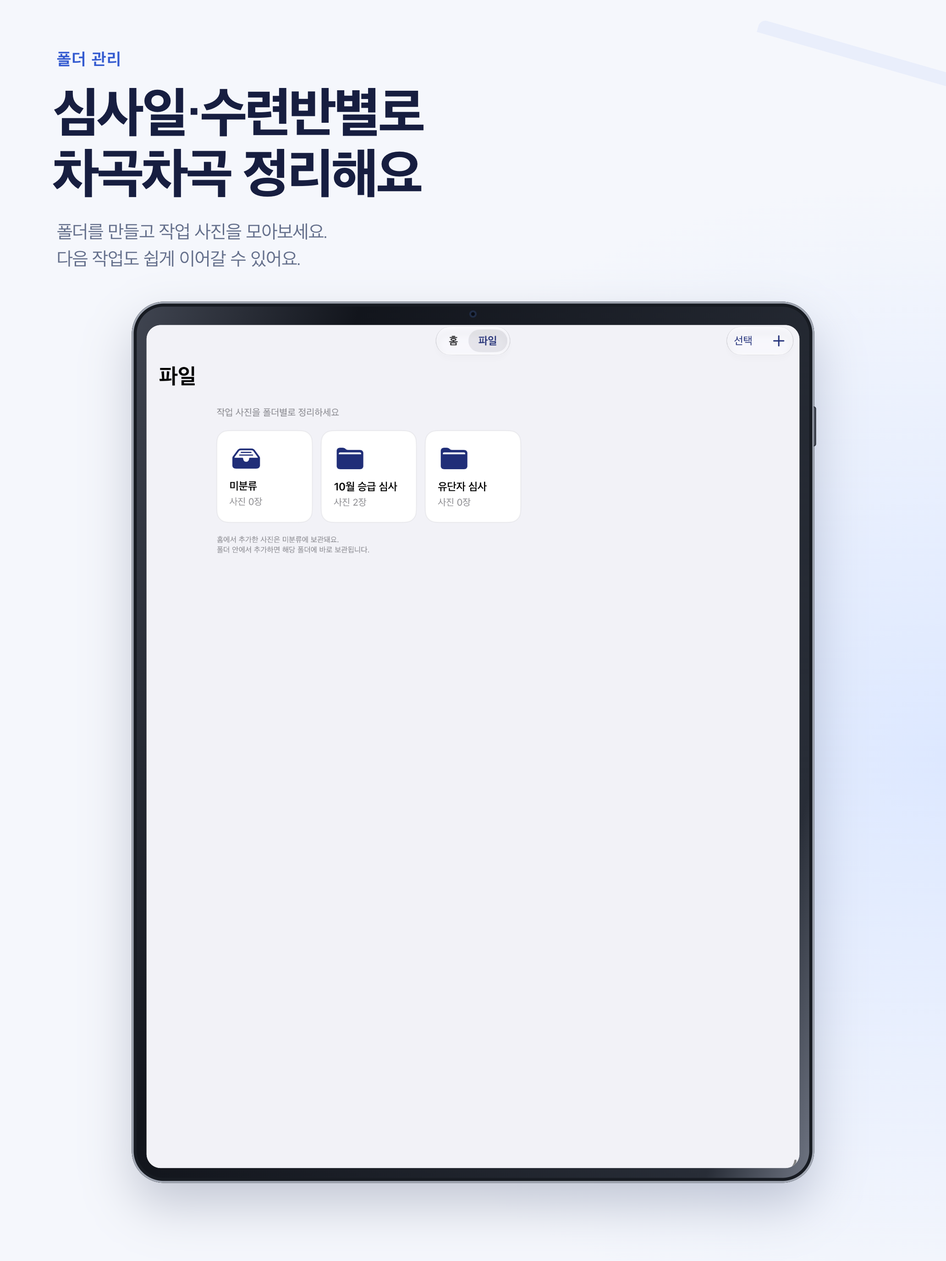
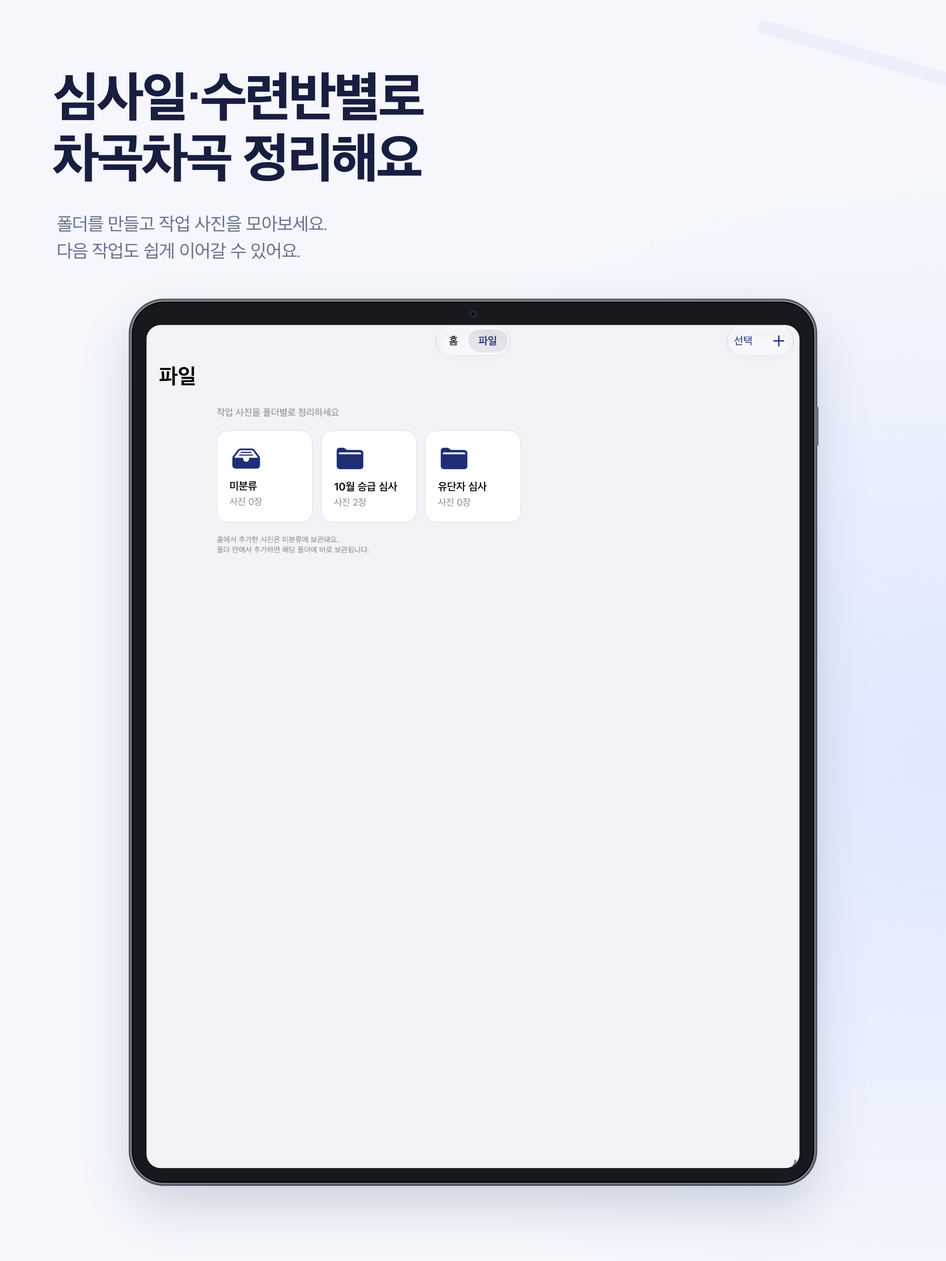
[refactor] 표지 로고와 아이폰 목업 개선

Changed region(s): [[0.062, 0.0312, 0.8372, 0.9375], [0.7132, 0.25, 0.8682, 0.9375]]

diff --git a/Design/AppStore/index.html b/Design/AppStore/index.html
@@ -1,1 +1,1 @@
-<!doctype html><html lang="ko"><meta charset="utf-8"><meta name="viewport" content="width=device-width"><title>TCON Maker · App Store 홍보 이미지</title><style>*{box-sizing:border-box}body{margin:0;padding:48px;background:#f1f4fa;color:#18275e;font-family:'Apple SD Gothic Neo',sans-serif}header,section{max-width:1600px;margin:0 auto 64px}h1{font-size:38px;margin:8px 0}h2{font-size:22px}.grid{display:grid;grid-template-columns:repeat(7,minmax(0,1fr));gap:18px}a{color:inherit;text-decoration:none}img{width:100%;border-radius:12px;box-shadow:0 8px 22px #13255416}span{display:block;margin-top:14px;font-size:14px}p{color:#626f89;line-height:1.6}.links{display:flex;gap:24px}@media(max-width:900px){body{padding:24px}.grid{grid-template-columns:repeat(3,minmax(0,1fr))}}@media(max-width:500px){.grid{grid-template-columns:repeat(2,minmax(0,1fr))}}</style><header><small>TCON MAKER / BY SEOLIN</small><h1>App Store 홍보 이미지</h1><p>실제 앱 화면에 기능별 제목과 설명을 더한 최종 이미지입니다.<br>각 기기 폴더에서 01–07 순서로 업로드하세요. 원본 캡처는 Captures 폴더에 보관되어 있습니다.</p><div class="links"><a href="Source/promotion.html">디자인 원본</a><a href="Captures/index.html">원본 캡처</a><a href="README.md">제작·업로드 안내</a></div></header><section><h2>iPhone-Large-1320x2868</h2><p>1320 × 2868 · PNG · 표지 + 기능 소개 6장 · 시간/배터리 영역 제외</p><div class="grid"><a href="ko-KR/iPhone-Large-1320x2868/01-cover.png" target="_blank"><img src="ko-KR/iPhone-Large-1320x2868/01-cover.png" alt="심사 사진 준비, 이제 간편하게"><span>심사 사진 준비, 이제 간편하게</span></a><a href="ko-KR/iPhone-Large-1320x2868/02-start.png" target="_blank"><img src="ko-KR/iPhone-Large-1320x2868/02-start.png" alt="심사 사진 준비, 이제 간편하게"><span>심사 사진 준비, 이제 간편하게</span></a><a href="ko-KR/iPhone-Large-1320x2868/03-size.png" target="_blank"><img src="ko-KR/iPhone-Large-1320x2868/03-size.png" alt="원하는 규격으로 한 번에 맞춰요"><span>원하는 규격으로 한 번에 맞춰요</span></a><a href="ko-KR/iPhone-Large-1320x2868/04-editor.png" target="_blank"><img src="ko-KR/iPhone-Large-1320x2868/04-editor.png" alt="얼굴 위치부터 구도까지 섬세하게"><span>얼굴 위치부터 구도까지 섬세하게</span></a><a href="ko-KR/iPhone-Large-1320x2868/05-folders.png" target="_blank"><img src="ko-KR/iPhone-Large-1320x2868/05-folders.png" alt="심사일·수련반별로 차곡차곡 정리해요"><span>심사일·수련반별로 차곡차곡 정리해요</span></a><a href="ko-KR/iPhone-Large-1320x2868/06-selection.png" target="_blank"><img src="ko-KR/iPhone-Large-1320x2868/06-selection.png" alt="필요한 사진만 골라서 한 번에"><span>필요한 사진만 골라서 한 번에</span></a><a href="ko-KR/iPhone-Large-1320x2868/07-export.png" target="_blank"><img src="ko-KR/iPhone-Large-1320x2868/07-export.png" alt="사진·파일·ZIP으로 편하게 저장해요"><span>사진·파일·ZIP으로 편하게 저장해요</span></a></div></section><section><h2>iPhone-Medium-1179x2556</h2><p>1179 × 2556 · PNG · 표지 + 기능 소개 6장 · 시간/배터리 영역 제외</p><div class="grid"><a href="ko-KR/iPhone-Medium-1179x2556/01-cover.png" target="_blank"><img src="ko-KR/iPhone-Medium-1179x2556/01-cover.png" alt="심사 사진 준비, 이제 간편하게"><span>심사 사진 준비, 이제 간편하게</span></a><a href="ko-KR/iPhone-Medium-1179x2556/02-start.png" target="_blank"><img src="ko-KR/iPhone-Medium-1179x2556/02-start.png" alt="심사 사진 준비, 이제 간편하게"><span>심사 사진 준비, 이제 간편하게</span></a><a href="ko-KR/iPhone-Medium-1179x2556/03-size.png" target="_blank"><img src="ko-KR/iPhone-Medium-1179x2556/03-size.png" alt="원하는 규격으로 한 번에 맞춰요"><span>원하는 규격으로 한 번에 맞춰요</span></a><a href="ko-KR/iPhone-Medium-1179x2556/04-editor.png" target="_blank"><img src="ko-KR/iPhone-Medium-1179x2556/04-editor.png" alt="얼굴 위치부터 구도까지 섬세하게"><span>얼굴 위치부터 구도까지 섬세하게</span></a><a href="ko-KR/iPhone-Medium-1179x2556/05-folders.png" target="_blank"><img src="ko-KR/iPhone-Medium-1179x2556/05-folders.png" alt="심사일·수련반별로 차곡차곡 정리해요"><span>심사일·수련반별로 차곡차곡 정리해요</span></a><a href="ko-KR/iPhone-Medium-1179x2556/06-selection.png" target="_blank"><img src="ko-KR/iPhone-Medium-1179x2556/06-selection.png" alt="필요한 사진만 골라서 한 번에"><span>필요한 사진만 골라서 한 번에</span></a><a href="ko-KR/iPhone-Medium-1179x2556/07-export.png" target="_blank"><img src="ko-KR/iPhone-Medium-1179x2556/07-export.png" alt="사진·파일·ZIP으로 편하게 저장해요"><span>사진·파일·ZIP으로 편하게 저장해요</span></a></div></section><section><h2>iPad-13-2064x2752</h2><p>2064 × 2752 · PNG · 표지 + 기능 소개 6장 · 시간/배터리 영역 제외</p><div class="grid"><a href="ko-KR/iPad-13-2064x2752/01-cover.png" target="_blank"><img src="ko-KR/iPad-13-2064x2752/01-cover.png" alt="심사 사진 준비, 이제 간편하게"><span>심사 사진 준비, 이제 간편하게</span></a><a href="ko-KR/iPad-13-2064x2752/02-start.png" target="_blank"><img src="ko-KR/iPad-13-2064x2752/02-start.png" alt="심사 사진 준비, 이제 간편하게"><span>심사 사진 준비, 이제 간편하게</span></a><a href="ko-KR/iPad-13-2064x2752/03-size.png" target="_blank"><img src="ko-KR/iPad-13-2064x2752/03-size.png" alt="원하는 규격으로 한 번에 맞춰요"><span>원하는 규격으로 한 번에 맞춰요</span></a><a href="ko-KR/iPad-13-2064x2752/04-editor.png" target="_blank"><img src="ko-KR/iPad-13-2064x2752/04-editor.png" alt="얼굴 위치부터 구도까지 섬세하게"><span>얼굴 위치부터 구도까지 섬세하게</span></a><a href="ko-KR/iPad-13-2064x2752/05-folders.png" target="_blank"><img src="ko-KR/iPad-13-2064x2752/05-folders.png" alt="심사일·수련반별로 차곡차곡 정리해요"><span>심사일·수련반별로 차곡차곡 정리해요</span></a><a href="ko-KR/iPad-13-2064x2752/06-selection.png" target="_blank"><img src="ko-KR/iPad-13-2064x2752/06-selection.png" alt="필요한 사진만 골라서 한 번에"><span>필요한 사진만 골라서 한 번에</span></a><a href="ko-KR/iPad-13-2064x2752/07-export.png" target="_blank"><img src="ko-KR/iPad-13-2064x2752/07-export.png" alt="사진·파일·ZIP으로 편하게 저장해요"><span>사진·파일·ZIP으로 편하게 저장해요</span></a></div></section></html>
+<!doctype html><html lang="ko"><meta charset="utf-8"><meta name="viewport" content="width=device-width"><title>TCON Maker · App Store 홍보 이미지</title><style>*{box-sizing:border-box}body{margin:0;padding:48px;background:#f1f4fa;color:#18275e;font-family:'Apple SD Gothic Neo',sans-serif}header,section{max-width:1600px;margin:0 auto 64px}h1{font-size:38px;margin:8px 0}h2{font-size:22px}.grid{display:grid;grid-template-columns:repeat(7,minmax(0,1fr));gap:18px}a{color:inherit;text-decoration:none}img{width:100%;border-radius:12px;box-shadow:0 8px 22px #13255416}span{display:block;margin-top:14px;font-size:14px}p{color:#626f89;line-height:1.6}.links{display:flex;gap:24px}@media(max-width:900px){body{padding:24px}.grid{grid-template-columns:repeat(3,minmax(0,1fr))}}@media(max-width:500px){.grid{grid-template-columns:repeat(2,minmax(0,1fr))}}</style><header><small>TCON MAKER / BY SEOLIN</small><h1>App Store 홍보 이미지</h1><p>실제 앱 화면에 기능별 제목과 설명을 더한 최종 이미지입니다.<br>각 기기 폴더에서 01–07 순서로 업로드하세요. 원본 캡처는 Captures 폴더에 보관되어 있습니다.</p><div class="links"><a href="Source/promotion.html">디자인 원본</a><a href="Captures/index.html">원본 캡처</a><a href="README.md">제작·업로드 안내</a></div></header><section><h2>iPhone-Large-1320x2868</h2><p>1320 × 2868 · PNG · 표지 + 기능 소개 6장 · 시간/배터리 영역 제외</p><div class="grid"><a href="ko-KR/iPhone-Large-1320x2868/01-cover.png" target="_blank"><img src="ko-KR/iPhone-Large-1320x2868/01-cover.png" alt="사진 준비는 가볍게, 심사에 더 집중하세요"><span>사진 준비는 가볍게, 심사에 더 집중하세요</span></a><a href="ko-KR/iPhone-Large-1320x2868/02-start.png" target="_blank"><img src="ko-KR/iPhone-Large-1320x2868/02-start.png" alt="심사 사진 준비, 이제 간편하게"><span>심사 사진 준비, 이제 간편하게</span></a><a href="ko-KR/iPhone-Large-1320x2868/03-size.png" target="_blank"><img src="ko-KR/iPhone-Large-1320x2868/03-size.png" alt="원하는 규격으로 한 번에 맞춰요"><span>원하는 규격으로 한 번에 맞춰요</span></a><a href="ko-KR/iPhone-Large-1320x2868/04-editor.png" target="_blank"><img src="ko-KR/iPhone-Large-1320x2868/04-editor.png" alt="얼굴 위치부터 구도까지 섬세하게"><span>얼굴 위치부터 구도까지 섬세하게</span></a><a href="ko-KR/iPhone-Large-1320x2868/05-folders.png" target="_blank"><img src="ko-KR/iPhone-Large-1320x2868/05-folders.png" alt="심사일·수련반별로 차곡차곡 정리해요"><span>심사일·수련반별로 차곡차곡 정리해요</span></a><a href="ko-KR/iPhone-Large-1320x2868/06-selection.png" target="_blank"><img src="ko-KR/iPhone-Large-1320x2868/06-selection.png" alt="필요한 사진만 골라서 한 번에"><span>필요한 사진만 골라서 한 번에</span></a><a href="ko-KR/iPhone-Large-1320x2868/07-export.png" target="_blank"><img src="ko-KR/iPhone-Large-1320x2868/07-export.png" alt="사진·파일·ZIP으로 편하게 저장해요"><span>사진·파일·ZIP으로 편하게 저장해요</span></a></div></section><section><h2>iPhone-Medium-1179x2556</h2><p>1179 × 2556 · PNG · 표지 + 기능 소개 6장 · 시간/배터리 영역 제외</p><div class="grid"><a href="ko-KR/iPhone-Medium-1179x2556/01-cover.png" target="_blank"><img src="ko-KR/iPhone-Medium-1179x2556/01-cover.png" alt="사진 준비는 가볍게, 심사에 더 집중하세요"><span>사진 준비는 가볍게, 심사에 더 집중하세요</span></a><a href="ko-KR/iPhone-Medium-1179x2556/02-start.png" target="_blank"><img src="ko-KR/iPhone-Medium-1179x2556/02-start.png" alt="심사 사진 준비, 이제 간편하게"><span>심사 사진 준비, 이제 간편하게</span></a><a href="ko-KR/iPhone-Medium-1179x2556/03-size.png" target="_blank"><img src="ko-KR/iPhone-Medium-1179x2556/03-size.png" alt="원하는 규격으로 한 번에 맞춰요"><span>원하는 규격으로 한 번에 맞춰요</span></a><a href="ko-KR/iPhone-Medium-1179x2556/04-editor.png" target="_blank"><img src="ko-KR/iPhone-Medium-1179x2556/04-editor.png" alt="얼굴 위치부터 구도까지 섬세하게"><span>얼굴 위치부터 구도까지 섬세하게</span></a><a href="ko-KR/iPhone-Medium-1179x2556/05-folders.png" target="_blank"><img src="ko-KR/iPhone-Medium-1179x2556/05-folders.png" alt="심사일·수련반별로 차곡차곡 정리해요"><span>심사일·수련반별로 차곡차곡 정리해요</span></a><a href="ko-KR/iPhone-Medium-1179x2556/06-selection.png" target="_blank"><img src="ko-KR/iPhone-Medium-1179x2556/06-selection.png" alt="필요한 사진만 골라서 한 번에"><span>필요한 사진만 골라서 한 번에</span></a><a href="ko-KR/iPhone-Medium-1179x2556/07-export.png" target="_blank"><img src="ko-KR/iPhone-Medium-1179x2556/07-export.png" alt="사진·파일·ZIP으로 편하게 저장해요"><span>사진·파일·ZIP으로 편하게 저장해요</span></a></div></section><section><h2>iPad-13-2064x2752</h2><p>2064 × 2752 · PNG · 표지 + 기능 소개 6장 · 시간/배터리 영역 제외</p><div class="grid"><a href="ko-KR/iPad-13-2064x2752/01-cover.png" target="_blank"><img src="ko-KR/iPad-13-2064x2752/01-cover.png" alt="사진 준비는 가볍게, 심사에 더 집중하세요"><span>사진 준비는 가볍게, 심사에 더 집중하세요</span></a><a href="ko-KR/iPad-13-2064x2752/02-start.png" target="_blank"><img src="ko-KR/iPad-13-2064x2752/02-start.png" alt="심사 사진 준비, 이제 간편하게"><span>심사 사진 준비, 이제 간편하게</span></a><a href="ko-KR/iPad-13-2064x2752/03-size.png" target="_blank"><img src="ko-KR/iPad-13-2064x2752/03-size.png" alt="원하는 규격으로 한 번에 맞춰요"><span>원하는 규격으로 한 번에 맞춰요</span></a><a href="ko-KR/iPad-13-2064x2752/04-editor.png" target="_blank"><img src="ko-KR/iPad-13-2064x2752/04-editor.png" alt="얼굴 위치부터 구도까지 섬세하게"><span>얼굴 위치부터 구도까지 섬세하게</span></a><a href="ko-KR/iPad-13-2064x2752/05-folders.png" target="_blank"><img src="ko-KR/iPad-13-2064x2752/05-folders.png" alt="심사일·수련반별로 차곡차곡 정리해요"><span>심사일·수련반별로 차곡차곡 정리해요</span></a><a href="ko-KR/iPad-13-2064x2752/06-selection.png" target="_blank"><img src="ko-KR/iPad-13-2064x2752/06-selection.png" alt="필요한 사진만 골라서 한 번에"><span>필요한 사진만 골라서 한 번에</span></a><a href="ko-KR/iPad-13-2064x2752/07-export.png" target="_blank"><img src="ko-KR/iPad-13-2064x2752/07-export.png" alt="사진·파일·ZIP으로 편하게 저장해요"><span>사진·파일·ZIP으로 편하게 저장해요</span></a></div></section></html>

diff --git a/Design/AppStore/Source/promotion.html b/Design/AppStore/Source/promotion.html
@@ -1,63 +1,54 @@
 <!doctype html>
 <html lang="ko"><meta charset="utf-8"><title>TCON App Store 디자인 원본</title>
 <style>
+
 *{box-sizing:border-box}html,body{margin:0;padding:0}body{background:#f2f4fa;font-family:'Apple SD Gothic Neo',sans-serif;-webkit-font-smoothing:antialiased}
 .artboard{position:relative;overflow:hidden;background:#f5f7fc;color:#171e40;transform-origin:top left}
 .artboard.dark{background:#19276b;color:#fff}
 .wash{position:absolute;inset:0;background:radial-gradient(ellipse at 100% 60%,#dde8ff 0,transparent 54%);pointer-events:none}
 .dark .wash{background:radial-gradient(ellipse at 100% 58%,#324895 0,transparent 60%)}
-.crop-mark{position:absolute;right:-100px;top:140px;width:380px;height:380px;border-top:22px solid #dce4fa;border-right:22px solid #dce4fa;transform:rotate(16deg);border-radius:12px;opacity:.48}
-.dark .crop-mark{border-color:#586ac0;opacity:.2}
-.eyebrow{position:absolute;top:188px;left:78px;font-size:27px;color:#345bd0;font-weight:700;letter-spacing:1px}
-.dark .eyebrow{color:#adbeff}
-h1{position:absolute;top:244px;left:72px;margin:0;font-size:82px;line-height:1.15;font-weight:800;letter-spacing:-3.8px;white-space:pre-line}
-.description{position:absolute;left:78px;top:458px;font-size:31px;line-height:1.5;font-weight:400;letter-spacing:-.65px;white-space:pre-line;color:#65708c;margin:0}
+.crop-mark{position:absolute;right:-100px;top:100px;width:380px;height:380px;border-top:22px solid #dce4fa;border-right:22px solid #dce4fa;transform:rotate(16deg);border-radius:12px;opacity:.35}
+.dark .crop-mark{border-color:#586ac0;opacity:.16}
+h1{position:absolute;top:124px;left:72px;margin:0;font-size:82px;line-height:1.15;font-weight:800;letter-spacing:-3.8px;white-space:pre-line}
+.description{position:absolute;left:78px;top:347px;font-size:31px;line-height:1.5;font-weight:400;letter-spacing:-.65px;white-space:pre-line;color:#65708c;margin:0}
 .dark .description{color:#c4cfeb}
-.frame{position:absolute;padding:12px;border-radius:52px;background:#fff;box-shadow:0 36px 75px #14265325,0 0 0 1px #25397712}
-.dark .frame{box-shadow:0 40px 90px #070c3048,0 0 0 1px #ffffff28}
-.screen{position:relative;overflow:hidden;border-radius:40px;background:white}
+/* Thin, uniform bezel. The island sits in the display safe area, not in a thick top bezel. */
+.frame{position:absolute;padding:12px;border-radius:81px;background:#17191e;box-shadow:0 36px 75px #1426532d,0 0 0 2px #9498a1,0 0 0 5px #575b64,inset 0 0 0 2px #050609}
+.dark .frame{box-shadow:0 40px 90px #070c3048,0 0 0 2px #7b8295,0 0 0 5px #454d62,inset 0 0 0 2px #050609}
+.screen{position:relative;overflow:hidden;border-radius:69px;background:#fff}
+.capture-viewport{position:absolute;left:0;overflow:hidden;width:100%}
 .screen img{position:absolute;display:block;max-width:none}
-.ipad .eyebrow{left:92px;top:176px}.ipad h1{left:85px;top:223px;font-size:88px;line-height:1.12}
-.ipad .description{left:92px;top:440px;font-size:30px;line-height:1.45}.ipad .crop-mark{top:90px;right:-120px;width:500px;height:500px}
-.ipad .frame{padding:14px;border-radius:38px}.ipad .screen{border-radius:25px}
-
-
-/* Feature panels deliberately have no extra brand header or footer. */
-.eyebrow{top:114px}
-h1{top:171px}
-.description{top:388px}
-.frame{padding:72px 19px 28px;border-radius:88px;background:linear-gradient(105deg,#414652,#12151c 25%,#282d37 88%,#737987);box-shadow:0 38px 80px #101d4538,inset 0 0 0 3px #a2a8b4,inset 0 0 0 8px #171b22}
-.screen{border-radius:15px 15px 47px 47px}
-.frame:before{content:'';position:absolute;top:22px;left:50%;transform:translateX(-50%);width:118px;height:28px;border-radius:20px;background:#050609;box-shadow:inset 0 0 0 1px #282c36}
-.frame:after{content:'';position:absolute;bottom:11px;left:50%;transform:translateX(-50%);width:152px;height:5px;border-radius:8px;background:#9299a6}
-.side-key{position:absolute;right:-5px;top:295px;width:6px;height:106px;background:#636976;border-radius:0 4px 4px 0;box-shadow:inset -2px 0 2px #242831}
-.side-key.left{left:-5px;right:auto;top:234px;height:76px;border-radius:4px 0 0 4px;box-shadow:0 103px #636976}
-.ipad .eyebrow{top:82px}.ipad h1{top:139px}.ipad .description{top:357px}
+.screen:before{content:'';position:absolute;z-index:3;top:20px;left:50%;transform:translateX(-50%);width:224px;height:62px;border-radius:40px;background:#050506;box-shadow:inset 0 0 0 1px #111217}
+.screen:after{content:'';position:absolute;z-index:3;bottom:8px;left:50%;transform:translateX(-50%);width:235px;height:7px;border-radius:8px;background:#181a20}
+.side-key{position:absolute;right:-8px;top:335px;width:5px;height:118px;background:#6b707c;border-radius:0 3px 3px 0}
+.side-key.left{left:-8px;right:auto;top:218px;height:70px;border-radius:3px 0 0 3px;box-shadow:0 101px #6b707c}
+.ipad h1{left:85px;top:114px;font-size:88px;line-height:1.12}.ipad .description{left:92px;top:344px;font-size:30px;line-height:1.45}
+.ipad .crop-mark{top:90px;right:-120px;width:500px;height:500px}
 .ipad .frame{padding:38px 24px 24px;border-radius:52px}.ipad .screen{border-radius:23px}
-.ipad .frame:before{width:12px;height:12px;top:14px;background:#080b12;box-shadow:inset 0 0 0 3px #202c45}.ipad .frame:after{display:none}
-.ipad .side-key{top:170px;height:65px;width:4px;right:-3px}.ipad .side-key.left{display:none}
+.ipad .frame:before{content:'';position:absolute;left:50%;transform:translateX(-50%);width:12px;height:12px;top:14px;background:#080b12;box-shadow:inset 0 0 0 3px #202c45;border-radius:50%}
+.ipad .screen:before,.ipad .screen:after{display:none}.ipad .side-key{top:170px;height:65px;width:4px;right:-7px}.ipad .side-key.left{display:none}
 .cover .crop-mark{display:none}
-.cover .wash{background:radial-gradient(ellipse at 50% 49%,#3b50a4 0,#26387d 34%,#182663 76%)}
-.cover h1{left:70px;right:70px;top:15%;text-align:center;font-size:92px;line-height:1.16;letter-spacing:-4px}
-.hero-icon{position:absolute;left:50%;top:50%;width:520px;height:520px;transform:translate(-50%,-50%);border-radius:112px;box-shadow:0 44px 100px #070e3d60,0 0 0 2px #ffffff24;overflow:hidden}
+.cover .wash{background:radial-gradient(ellipse at 50% 49%,#2d3e82 0,#243575 34%,#1b2a69 76%)}
+.cover h1{left:65px;right:65px;top:16%;text-align:center;font-size:82px;line-height:1.23;letter-spacing:-3.5px}
+.hero-icon{position:absolute;left:50%;top:50%;width:410px;height:410px;transform:translate(-50%,-50%);border-radius:90px;overflow:hidden;opacity:.78;mix-blend-mode:luminosity}
 .hero-icon img{width:100%;height:100%;display:block}
-.hero-name{position:absolute;left:0;right:0;top:calc(50% + 326px);text-align:center;font-size:66px;letter-spacing:-2px;font-weight:750}
-.hero-detail{position:absolute;left:0;right:0;top:calc(50% + 424px);text-align:center;font-size:31px;color:#bdc9ec;letter-spacing:-.5px}
-.cover-signature{position:absolute;bottom:105px;left:50%;transform:translateX(-50%);width:290px;height:265px;padding:19px;border-radius:27px;background:#fff;box-shadow:0 18px 50px #0b123622}
-.cover-signature img{width:100%;height:100%;object-fit:contain}
-.ipad.cover h1{top:12%;font-size:105px}.ipad .hero-icon{width:470px;height:470px;border-radius:100px}
-.ipad .hero-name{top:calc(50% + 278px)}.ipad .hero-detail{top:calc(50% + 374px)}
-.ipad .cover-signature{bottom:85px;width:285px;height:260px}
-
+.hero-name{position:absolute;left:0;right:0;top:calc(50% + 273px);text-align:center;font-size:60px;letter-spacing:-1.8px;font-weight:700;color:#e6eafb}
+.hero-detail{position:absolute;left:0;right:0;top:calc(50% + 365px);text-align:center;font-size:29px;color:#adbadc;letter-spacing:-.5px}
+/* The original logo stays untouched; CSS blends a subdued monochrome signature into the cover. */
+.cover-signature{position:absolute;bottom:122px;left:50%;transform:translateX(-50%);width:270px;height:244px;mix-blend-mode:screen;opacity:.54}
+.cover-signature img{width:100%;height:100%;object-fit:contain;filter:grayscale(1) invert(1)}
+.ipad.cover h1{top:12%;font-size:100px}.ipad .hero-icon{width:410px;height:410px;border-radius:90px}
+.ipad .hero-name{top:calc(50% + 260px)}.ipad .hero-detail{top:calc(50% + 350px)}
+.ipad .cover-signature{bottom:105px;width:270px;height:244px}
 </style>
 <main class="artboard" id="artboard">
  <div class="wash"></div><div class="crop-mark"></div>
- <div class="eyebrow"></div><h1></h1><p class="description"></p>
- <div class="frame"><i class="side-key"></i><i class="side-key left"></i><div class="screen"><img id="capture" alt="실제 앱 화면"></div></div>
+ <h1></h1><p class="description"></p>
+ <div class="frame"><i class="side-key"></i><i class="side-key left"></i><div class="screen"><div class="capture-viewport"><img id="capture" alt="실제 앱 화면"></div></div></div>
 </main>
 <script>
 const slides = [
- {id:'01-cover',cover:true,dark:true,title:'심사 사진 준비,\n이제 간편하게',description:'한 장부터 여러 장까지',feature:'TCON Maker'},
+ {id:'01-cover',cover:true,dark:true,title:'사진 준비는 가볍게,\n심사에 더 집중하세요',description:'사진 선택부터 규격 맞춤, 저장까지',feature:'TCON Maker'},
  {id:'02-start',feature:'사진 준비',title:'심사 사진 준비,\n이제 간편하게',description:'사진을 고르고, 맞추고, 저장하세요.\n한 장부터 여러 장까지 한곳에서.',source:'01-home.png',dark:true},
  {id:'03-size',feature:'규격 설정',title:'원하는 규격으로\n한 번에 맞춰요',description:'TCON · 증명사진 · 여권사진 프리셋.\n크기와 저장 용량도 함께 설정해요.',source:'07-settings.png'},
  {id:'04-editor',feature:'사진 편집',title:'얼굴 위치부터\n구도까지 섬세하게',description:'안내선을 보며 여백과 얼굴 크기를 조절해요.\n배경과 밝기도 사진에 맞게 다듬어요.',source:'03-editor.png'},
@@ -84,17 +75,18 @@ if(slide.cover){
  board.querySelector('.hero-detail').textContent=slide.description;
  window.renderSpec={device:key,width:device.width,height:device.height,slide,source:null,crop:null,baseWidth,baseHeight,slideCount:slides.length};
 }else{
-document.querySelector('.eyebrow').textContent=slide.feature;
 document.querySelector('h1').textContent=slide.title;document.querySelector('.description').textContent=slide.description;
 const sourceDevice=device.ipad?'iPad-13-2064x2752':'iPhone-Large-1320x2868';
 // Clip the OS status strip, not the app UI. Preserve the entire visible app beneath it.
 const sourceWidth=device.ipad?2064:1320;
 const crop=device.ipad?{x:0,y:58,width:2064,height:2666}:{x:0,y:180,width:1320,height:2672};
 const screenWidth=device.ipad?1060:800,scale=screenWidth/crop.width,screenHeight=crop.height*scale;
-const padding=device.ipad?24:19,frameWidth=screenWidth+padding*2;
+const padding=device.ipad?24:12,frameWidth=screenWidth+padding*2;
 const frame=document.querySelector('.frame'),screen=document.querySelector('.screen'),capture=document.querySelector('#capture');
-Object.assign(frame.style,{left:(baseWidth-frameWidth)/2+'px',top:(device.ipad?490:545)+'px'});
-Object.assign(screen.style,{width:screenWidth+'px',height:screenHeight+'px'});
+Object.assign(frame.style,{left:(baseWidth-frameWidth)/2+'px',top:490+'px'});
+const safeTop=device.ipad?0:114,safeBottom=device.ipad?0:24;
+Object.assign(screen.style,{width:screenWidth+'px',height:(screenHeight+safeTop+safeBottom)+'px'});
+Object.assign(document.querySelector('.capture-viewport').style,{top:safeTop+'px',height:screenHeight+'px'});
 capture.src=`../Captures/ko-KR/${sourceDevice}/${slide.source}`;
 Object.assign(capture.style,{left:-crop.x*scale+'px',top:-crop.y*scale+'px',width:sourceWidth*scale+'px'});
 window.renderSpec={device:key,width:device.width,height:device.height,slide,source:`Captures/ko-KR/${sourceDevice}/${slide.source}`,crop,baseWidth,baseHeight,slideCount:slides.length};

diff --git a/Design/AppStore/README.md b/Design/AppStore/README.md
@@ -1,6 +1,6 @@
 # App Store 한국어 홍보 이미지
 
-앱 로고를 중앙에 배치한 프로모션 표지와 실제 TCON Maker 1.0.0 (1) 캡처에 기능별 제목·설명 및 기기 목업을 적용한 홍보 이미지이다. 큰 하단 서린 로고는 첫 표지에만 배치하고, 기능 소개 이미지의 상단 브랜드 행과 하단 브랜드 문구·서명은 제거했다. `index.html`에서 전체 결과를 확인한다. 정지 이미지이며 App Preview 동영상은 아니다.
+앱 로고를 중앙에 배치한 프로모션 표지와 실제 TCON Maker 1.0.0 (1) 캡처에 기능별 제목·설명 및 기기 목업을 적용한 홍보 이미지이다. 큰 하단 서린 로고는 첫 표지에만 배치하고 배경에 어울리는 부드러운 단색으로 표현했다. 중앙 앱 로고의 크기와 대비도 낮췄다. 기능 소개 이미지의 상단 브랜드 행·작은 분류 문구와 하단 브랜드 문구·서명은 제거했다. `index.html`에서 전체 결과를 확인한다. 정지 이미지이며 App Preview 동영상은 아니다.
 
 ## 최종 업로드 파일
 
@@ -12,7 +12,7 @@
 | iPhone-Large-1320x2868 | 1320 × 2868 | iPhone 18 Pro Max 시뮬레이터의 실제 앱 UI |
 | iPad-13-2064x2752 | 2064 × 2752 | iPad Pro 13형 시뮬레이터의 실제 앱 UI |
 
-1. 프로모션 표지 — 중앙 TCON 앱 로고, 하단 큰 서린 로고
+1. 프로모션 표지 — 사진 준비는 가볍게, 심사에 더 집중하세요
 2. 사진 준비 — 심사 사진 준비, 이제 간편하게
 3. 규격 설정 — 원하는 규격으로 한 번에 맞춰요
 4. 사진 편집 — 얼굴 위치부터 구도까지 섬세하게
@@ -20,7 +20,7 @@
 6. 여러 장 선택 — 필요한 사진만 골라서 한 번에
 7. 사진 저장 — 사진·파일·ZIP으로 편하게 저장해요
 
-모든 PNG는 RGB·불투명이다. iPhone에는 간단한 프레임·측면 버튼·상단 카메라 형태의 목업을, iPad에는 해당 캡처 비율의 태블릿 목업을 사용했다. 목업은 캡처 바깥에만 배치하여 앱 컨트롤을 가리지 않는다. 실제 앱 UI에 이미 포함된 로고는 캡처 그대로 유지한다. 홍보 문구는 앱 화면 바깥에 배치했다. UI 글자·버튼·사진 보정 결과를 다시 그리거나 교체하지 않았고, 가상의 성인 예시 사진만 사용했다. 화면 안의 사진은 해당 캡처에서 선택한 원본 배경 모드이다.
+모든 PNG는 RGB·불투명이다. iPhone에는 얇고 균일한 베젤·측면 버튼·둥근 화면과 화면 내부 다이내믹 아일랜드를 적용한 목업을, iPad에는 해당 캡처 비율의 태블릿 목업을 사용했다. 아이폰의 상단 안전 영역과 하단 홈 표시 영역을 캡처 바깥에 구성하여 다이내믹 아일랜드가 앱 컨트롤을 가리지 않는다. 시간·배터리 아이콘은 추가하지 않는다. 표지 로고의 색상·투명도 조정은 HTML/CSS 표시 효과이며 원본 로고 파일은 변경하지 않는다. 실제 앱 UI에 이미 포함된 로고는 캡처 그대로 유지한다. 홍보 문구는 앱 화면 바깥에 배치했다. UI 글자·버튼·사진 보정 결과를 다시 그리거나 교체하지 않았고, 가상의 성인 예시 사진만 사용했다. 화면 안의 사진은 해당 캡처에서 선택한 원본 배경 모드이다.
 
 iPhone 캡처의 상단 180px, iPad 캡처의 상단 58px를 CSS 표시 영역에서 제외하여 시간·배터리·상태 아이콘을 숨겼다. 하단 여백은 각각 16px, 28px를 제외했다. 앱 화면은 비율을 유지해 축소했으며 원본 캡처 파일은 수정하지 않았다. 상태 표시줄 제외는 이번 디자인 요청에 따른 것이며 Apple의 필수 규칙이라는 의미는 아니다.
 
